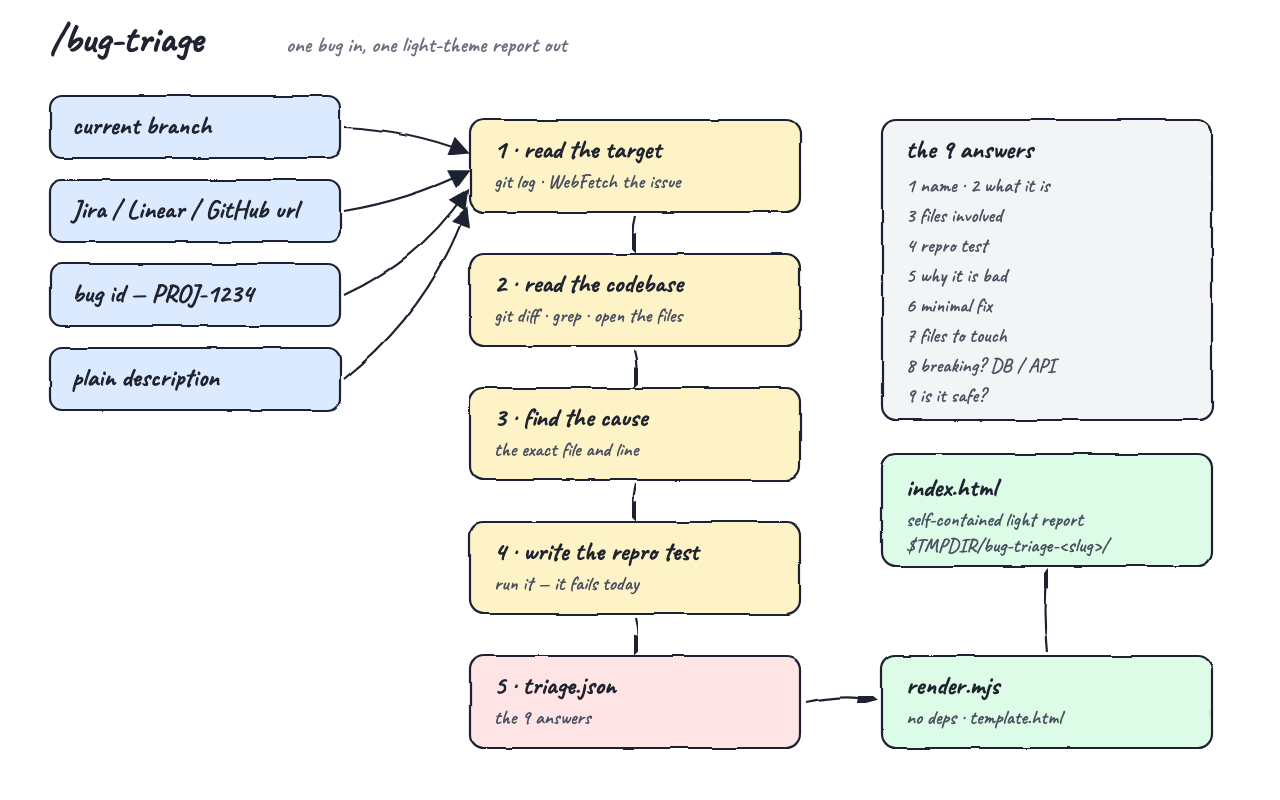
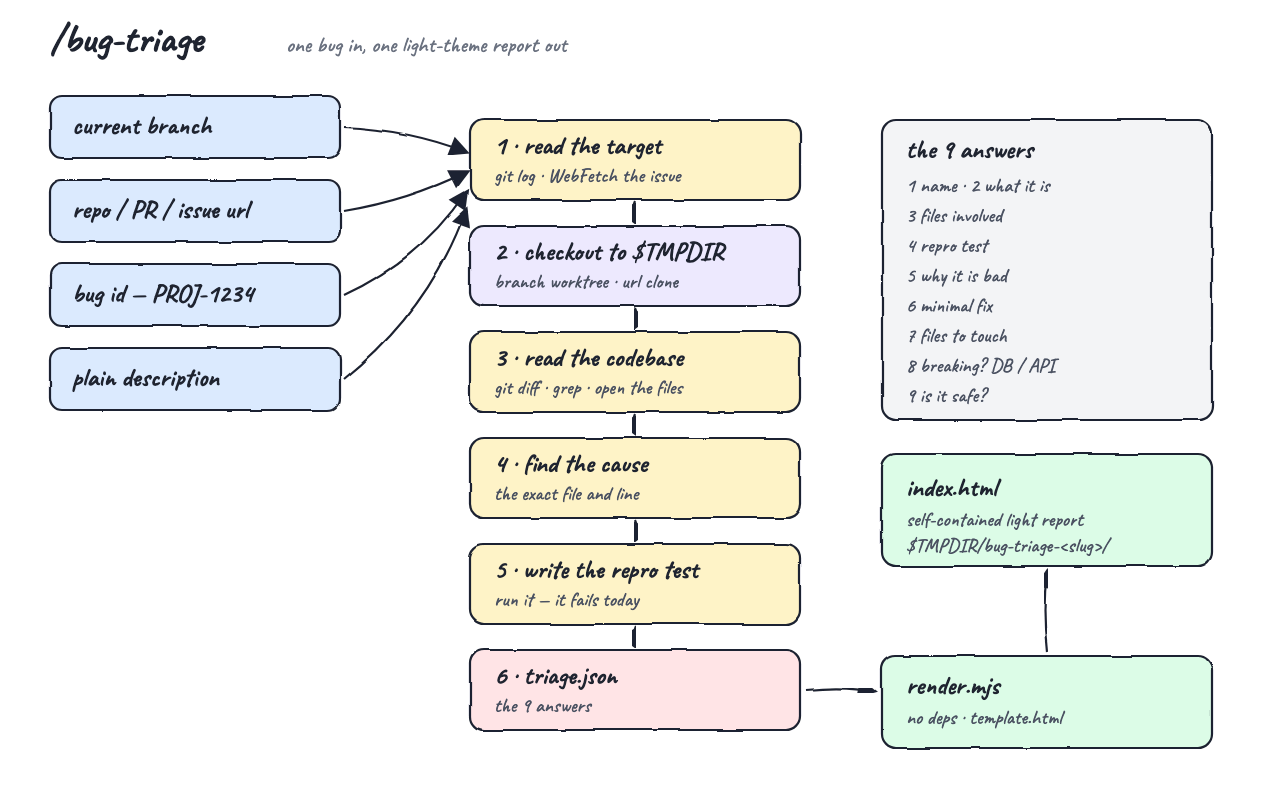
agent-skill-bug-triage: check the source out into a temp folder before triage.
A branch becomes a detached git worktree and a repo or GitHub PR url becomes a shallow clone under TMPDIR, so triaging a PR never switches the user's branch or touches uncommitted work.
checkout.sh --clean prunes them; test.sh covers the checkout and the unknown-branch failure.

Changed region(s): [[0.3438, 0.1562, 0.625, 0.9375], [0.0625, 0.25, 0.25, 0.2812], [0.625, 0.8438, 0.6875, 0.875]]

diff --git a/pocs/agent-skill-bug-triage/printscreens/architecture.html b/pocs/agent-skill-bug-triage/printscreens/architecture.html
@@ -33,7 +33,7 @@
   <text x="72" y="134" class="t">current branch</text>
 
   <rect class="box" x="50" y="180" width="290" height="62" rx="12" fill="#dbeafe"/>
-  <text x="72" y="218" class="t">Jira / Linear / GitHub url</text>
+  <text x="72" y="218" class="t">repo / PR / issue url</text>
 
   <rect class="box" x="50" y="264" width="290" height="62" rx="12" fill="#dbeafe"/>
   <text x="72" y="302" class="t">bug id — PROJ-1234</text>
@@ -46,35 +46,31 @@
   <path class="edge" d="M 344 295 Q 420 260 466 192" marker-end="url(#arrow)"/>
   <path class="edge" d="M 344 379 Q 430 310 466 210" marker-end="url(#arrow)"/>
 
-  <rect class="box" x="470" y="120" width="330" height="92" rx="14" fill="#fef3c7"/>
-  <text x="494" y="158" class="t">1 · read the target</text>
-  <text x="494" y="188" class="s">git log · WebFetch the issue</text>
+  <rect class="box" x="470" y="120" width="330" height="80" rx="14" fill="#fef3c7"/>
+  <text x="494" y="154" class="t">1 · read the target</text>
+  <text x="494" y="182" class="s">git log · WebFetch the issue</text>
+  <path class="edge" d="M 635 202 Q 630 212 635 222" marker-end="url(#arrow)"/>
+  <rect class="box" x="470" y="226" width="330" height="80" rx="14" fill="#ede9fe"/>
+  <text x="494" y="260" class="t">2 · checkout to $TMPDIR</text>
+  <text x="494" y="288" class="s">branch worktree · url clone</text>
+  <path class="edge" d="M 635 308 Q 640 318 635 328" marker-end="url(#arrow)"/>
+  <rect class="box" x="470" y="332" width="330" height="80" rx="14" fill="#fef3c7"/>
+  <text x="494" y="366" class="t">3 · read the codebase</text>
+  <text x="494" y="394" class="s">git diff · grep · open the files</text>
+  <path class="edge" d="M 635 414 Q 630 424 635 434" marker-end="url(#arrow)"/>
+  <rect class="box" x="470" y="438" width="330" height="80" rx="14" fill="#fef3c7"/>
+  <text x="494" y="472" class="t">4 · find the cause</text>
+  <text x="494" y="500" class="s">the exact file and line</text>
+  <path class="edge" d="M 635 520 Q 640 530 635 540" marker-end="url(#arrow)"/>
+  <rect class="box" x="470" y="544" width="330" height="80" rx="14" fill="#fef3c7"/>
+  <text x="494" y="578" class="t">5 · write the repro test</text>
+  <text x="494" y="606" class="s">run it — it fails today</text>
+  <path class="edge" d="M 635 626 Q 630 636 635 646" marker-end="url(#arrow)"/>
+  <rect class="box" x="470" y="650" width="330" height="80" rx="14" fill="#ffe4e6"/>
+  <text x="494" y="684" class="t">6 · triage.json</text>
+  <text x="494" y="712" class="s">the 9 answers</text>
 
-  <path class="edge" d="M 635 216 Q 630 234 635 250" marker-end="url(#arrow)"/>
-
-  <rect class="box" x="470" y="254" width="330" height="92" rx="14" fill="#fef3c7"/>
-  <text x="494" y="292" class="t">2 · read the codebase</text>
-  <text x="494" y="322" class="s">git diff · grep · open the files</text>
-
-  <path class="edge" d="M 635 350 Q 640 368 635 384" marker-end="url(#arrow)"/>
-
-  <rect class="box" x="470" y="388" width="330" height="92" rx="14" fill="#fef3c7"/>
-  <text x="494" y="426" class="t">3 · find the cause</text>
-  <text x="494" y="456" class="s">the exact file and line</text>
-
-  <path class="edge" d="M 635 484 Q 630 502 635 518" marker-end="url(#arrow)"/>
-
-  <rect class="box" x="470" y="522" width="330" height="92" rx="14" fill="#fef3c7"/>
-  <text x="494" y="560" class="t">4 · write the repro test</text>
-  <text x="494" y="590" class="s">run it — it fails today</text>
-
-  <path class="edge" d="M 635 618 Q 640 636 635 652" marker-end="url(#arrow)"/>
-
-  <rect class="box" x="470" y="656" width="330" height="92" rx="14" fill="#ffe4e6"/>
-  <text x="494" y="694" class="t">5 · triage.json</text>
-  <text x="494" y="724" class="s">the 9 answers</text>
-
-  <path class="edge" d="M 806 702 Q 846 694 874 700" marker-end="url(#arrow)"/>
+  <path class="edge" d="M 806 690 Q 846 686 874 692" marker-end="url(#arrow)"/>
 
   <rect class="box" x="882" y="656" width="330" height="92" rx="14" fill="#dcfce7"/>
   <text x="906" y="694" class="t">render.mjs</text>

diff --git a/pocs/agent-skill-bug-triage/bug-triage-report/index.html b/pocs/agent-skill-bug-triage/bug-triage-report/index.html
@@ -151,7 +151,7 @@
 <div class="top">
   <div class="kicker">bug triage</div>
   <h1>A fixed coupon worth more than the cart charges the customer a negative amount</h1>
-  <div class="sub">PIX-482 · bug triage report · generated 2026-08-29 20:18</div>
+  <div class="sub">PIX-482 · bug triage report · generated 2026-08-29 21:46</div>
 </div>
 <div class="wrap">
   <nav><a href="#name"><span class="n">1</span>Bug name</a><a href="#description"><span class="n">2</span>What the bug is</a><a href="#files"><span class="n">3</span>Files and classes involved</a><a href="#repro"><span class="n">4</span>Test that reproduces it</a><a href="#why"><span class="n">5</span>Why this bug is bad</a><a href="#solution"><span class="n">6</span>Minimal solution</a><a href="#touch"><span class="n">7</span>Files to touch</a><a href="#breaking"><span class="n">8</span>Breaking change?</a><a href="#safety"><span class="n">9</span>Is the fix safe?</a></nav>

diff --git a/pocs/agent-skill-bug-triage/README.md b/pocs/agent-skill-bug-triage/README.md
@@ -1,13 +1,13 @@
 # bug-triage — one bug in, one report out
 
-An agent skill that takes a single bug — from the branch you are on, a Jira or Linear url, a bug id, or a sentence you type — reads the real codebase to find its cause, and writes a self-contained light-theme HTML report to a temp folder.
+An agent skill that takes a single bug — from the branch you are on, another branch, a repo or GitHub PR url, a Jira or Linear url, a bug id, or a sentence you type — reads the real codebase to find its cause, and writes a self-contained light-theme HTML report to a temp folder.
 
 The report answers nine questions and nothing else: what the bug is called, what it is in 3-5 plain lines, which files are involved, a test that reproduces it, why it is bad, the smallest fix, which files to touch, whether it breaks the database or a public contract, and whether the fix is safe.
 
 ## How it works
 
-1. You run `/bug-triage` with a branch, a tracker url, a bug id, or a description.
-2. The skill reads the target — `git diff`, `git log`, or WebFetch on the issue url.
+1. You run `/bug-triage` with a branch, a repo or PR url, a tracker url, a bug id, or a description.
+2. The skill reads the target — `git diff`, `git log`, or WebFetch on the issue url. If the code is not the tree you are standing in — another branch, a repo url, a GitHub PR — `checkout.sh` puts it in `$TMPDIR/bug-triage-src-<slug>/` first: a detached `git worktree` for a branch, a shallow clone for a url. Your working tree and your uncommitted changes are never touched.
 3. It searches and opens the real files until it can point at the exact file and line that is wrong.
 4. It writes a test that fails today because of this bug, and runs it.
 5. It fills a `triage.json` with the nine answers.
@@ -25,7 +25,8 @@ Inputs on the left all collapse to the same thing: one bug. The middle is the re
 
 | Feature | Why |
 |---|---|
-| Four ways in — branch, url, bug id, description | You triage a bug from wherever it reached you, not from one tool |
+| Five ways in — branch, repo or PR url, issue url, bug id, description | You triage a bug from wherever it reached you, not from one tool |
+| Source lands in a temp folder too | Triaging a PR or another branch never switches your branch or stashes your work |
 | Reads the code, not the ticket | A ticket says what a user saw; the file says what actually happens |
 | A reproduction test that fails today | A bug you cannot reproduce is a guess, and the test is also the proof the fix worked |
 | Line numbers and syntax highlighting in the report | You read the test and the diff in the report instead of switching to an editor |
@@ -42,7 +43,7 @@ Inputs on the left all collapse to the same thing: one bug. The middle is the re
 | Node (ESM), no dependencies | The renderer is string work; a package.json of dependencies would be dead weight |
 | One HTML template with inline CSS | The report has to open from a temp folder with no server and no network |
 | Hand-rolled highlighter | 40 lines of regex beats shipping a syntax library into a report file |
-| bash for install / uninstall | Copying a folder is a copy, not a build step |
+| bash for install / uninstall / checkout | Copying a folder is a copy, and `git worktree` already does the hard part |
 | `node --test` in the sample | The reproduction test needs a runner the sample already has |
 
 ## The contract: triage.json
@@ -73,7 +74,9 @@ Required: `bug.name`, `description`, `files`, `repro.code`, `why_bad`, `solution
 - **Highlighting happens at render time, not in the browser.** The report ships as static markup, so it stays readable with JavaScript off and can be saved anywhere.
 - **Line numbers live in their own `<pre>`.** A gutter column beside the code keeps multi-line strings and block comments intact instead of splitting a `<span>` per line, and it keeps the numbers out of a copy-paste.
 - **The renderer validates and exits loud.** A triage missing its safety verdict is not a report, so it fails rather than rendering an empty card.
-- **The skill never edits the project.** It writes the report folder and nothing else — triage is a read of the code, not a change to it.
+- **The skill never edits the project.** It writes the report folder and the temp checkout, and nothing else — triage is a read of the code, not a change to it.
+- **A branch is a worktree, a url is a clone.** A worktree reuses the objects you already have and costs a checkout; a clone is only paid when the code is not on the machine. Both are detached, so neither can move a branch under you.
+- **Report paths are the paths that were read.** When the source is a temp checkout, `files` and `files_to_touch` carry those temp paths and the report says so, rather than guessing where the same file sits in your copy.
 
 ## Install
 
@@ -117,7 +120,18 @@ Requires `node`.
 /bug-triage fix/checkout-total                                 triage what a branch changed
 /bug-triage https://acme.atlassian.net/browse/PIX-482          triage a Jira issue
 /bug-triage https://linear.app/acme/issue/ENG-88               triage a Linear issue
+/bug-triage https://github.com/acme/store/pull/412              triage a GitHub PR
 /bug-triage a $25 coupon on a $15 cart charges the user -10.80 triage a description
+```
+
+A branch, a repo url, or a PR url is checked out under `$TMPDIR` before anything is read:
+
+```bash
+./skill/scripts/checkout.sh https://github.com/acme/store/pull/412
+CHECKOUT /var/folders/.../T/bug-triage-src-acme-store-pr-412
+REF pull/412/head
+
+./skill/scripts/checkout.sh --clean     # prune the worktrees, delete the temp checkouts
 ```
 
 It prints the report path and offers to open it:
@@ -132,11 +146,15 @@ REPORT /var/folders/.../T/bug-triage-pix-482-2026-08-29-131359/index.html
 ./test.sh
 ```
 
-It runs the sample's existing suite (green while the bug is live), runs the reproduction test (must fail), renders the report, and checks all nine sections and the tracker link are in the HTML.
+It checks out this repo into a temp folder and proves an unknown branch is rejected, runs the sample's existing suite (green while the bug is live), runs the reproduction test (must fail), renders the report, and checks all nine sections and the tracker link are in the HTML.
 
 Measured output:
 
 ```
+== checkout into a temp folder ==
+OK source checked out to /var/folders/.../T/bug-triage-src-ai-playground-head
+OK checkout rejects an unknown branch
+
 == existing suite (green while the bug is live) ==
 ℹ pass 4
 ℹ fail 0
@@ -183,6 +201,7 @@ The whole page: nine numbered sections with a sticky index down the left, ending
 agent-skill-bug-triage/
 ├── skill/
 │   ├── SKILL.md                 the agent playbook
+│   ├── scripts/checkout.sh      branch, repo or PR into $TMPDIR (worktree or clone)
 │   ├── scripts/render.mjs       validate triage.json, highlight, render
 │   └── assets/template.html     the light-theme report template
 ├── sample/                      tiny cart with a real money bug
@@ -191,6 +210,6 @@ agent-skill-bug-triage/
 │   └── triage.json              the triage of that bug
 ├── printscreens/                architecture diagram + report screenshots
 ├── install.sh / uninstall.sh    Claude Code, Codex, or both
-├── test.sh                      end to end: suite, reproduction, render, checks
+├── test.sh                      end to end: checkout, suite, reproduction, render, checks
 └── README.md
 ```

diff --git a/pocs/agent-skill-bug-triage/skill/SKILL.md b/pocs/agent-skill-bug-triage/skill/SKILL.md
@@ -9,10 +9,12 @@ allowed-tools: [Bash, Read, Grep, Glob, WebFetch, AskUserQuestion]
 When invoked, you take one bug from whatever the user gives you, read the actual code to find its cause, and write a light-theme report to a temp folder. Every claim in the report comes from a file you read. You do not fix the bug — you triage it.
 
 ## Global Context
-- User request / scope: $ARGUMENTS — empty, a branch name, a git or issue URL, a Jira/Linear/GitHub issue id, or a plain description of the bug
+- User request / scope: $ARGUMENTS — empty, a branch name, a repo or PR URL, an issue URL, a Jira/Linear/GitHub issue id, or a plain description of the bug
+- Checkout: `scripts/checkout.sh` (puts a repo, a PR, or another branch in a temp folder — never touches the working tree)
 - Renderer: `scripts/render.mjs` (Node, no dependencies)
 - Template: `assets/template.html`
 - Output: `$TMPDIR/bug-triage-<slug>-<timestamp>/index.html` plus the `triage.json` it was rendered from
+- Source read: the repo you are in, or `$TMPDIR/bug-triage-src-<slug>/` when the bug came from a repo, a PR, or a branch you are not on
 
 ## Rules
 - Read the code before you write anything. Never describe a file you have not opened.
@@ -27,10 +29,24 @@ When invoked, you take one bug from whatever the user gives you, read the actual
 Read `$ARGUMENTS` and pick the case:
 
 - **Empty** — triage the branch you are on. Run `git status -sb`, `git log --oneline -15`, and `git diff main...HEAD` to find what changed, then ask the user which bug they mean if the branch shows more than one candidate.
-- **A branch name** — `git diff main...<branch>` and `git log --oneline main..<branch>` to read what that branch changed.
-- **A Jira / Linear / GitHub URL** — fetch it with WebFetch and pull out the title, the description, and the reproduction steps. If the fetch is blocked by a login, say so in one line and ask the user to paste the bug text. Keep the URL either way — it goes in the report as `bug.url`.
+- **A branch name** — check it out into a temp folder (Step 1b), then `git diff main...<branch>` and `git log --oneline main..<branch>` to read what that branch changed.
+- **A repo URL or a GitHub PR URL** — clone it into a temp folder (Step 1b). For a PR, `git diff origin/HEAD...HEAD` in that folder is what the PR changed.
+- **A Jira / Linear / GitHub issue URL** — fetch it with WebFetch and pull out the title, the description, and the reproduction steps. If the fetch is blocked by a login, say so in one line and ask the user to paste the bug text. Keep the URL either way — it goes in the report as `bug.url`. If the issue names a repo or a PR you do not have locally, take that url through Step 1b too.
 - **A bug id with no URL** (`PROJ-1234`, `ENG-88`) — search the repo for it (`git log --grep`, `grep -r`) and ask the user for the link or the description if nothing turns up.
-- **A plain description** — that is the bug. Use it as written.
+- **A plain description** — that is the bug. Use it as written, against the repo you are in.
+
+## Step 1b — Put the source in a temp folder
+Only when the code you need is not the working tree you are standing in:
+
+```bash
+"$HOME/.claude/skills/bug-triage/scripts/checkout.sh" <repo url | pr url | branch>
+```
+
+It prints `CHECKOUT <path>` and the head commit. A branch becomes a detached `git worktree` under `$TMPDIR`, so the user's checked-out branch and uncommitted work are never touched. A repo or PR url becomes a shallow clone under `$TMPDIR`; a PR is fetched as `pull/<n>/head`. It exits 1 with a plain message when the url is unreachable or the branch does not exist — relay that instead of triaging the wrong tree.
+
+Read the code from the printed path, and use that path in `files` and `files_to_touch` so every path in the report is the one you actually read. Say in `solution.notes` that the paths are a temp checkout of `<ref>` when they are.
+
+`checkout.sh --clean` prunes the worktrees and deletes every `bug-triage-src-*` folder. Run it when the user asks, not on your own — the report points at those paths.
 
 ## Step 2 — Find the cause in the code
 Search the codebase for the symptom: the error text, the endpoint, the function, the field. Follow the call path from the entry point to the line that is actually wrong. Read the tests around it — an existing test that passes while the bug is live tells you what the code believes it is doing.
